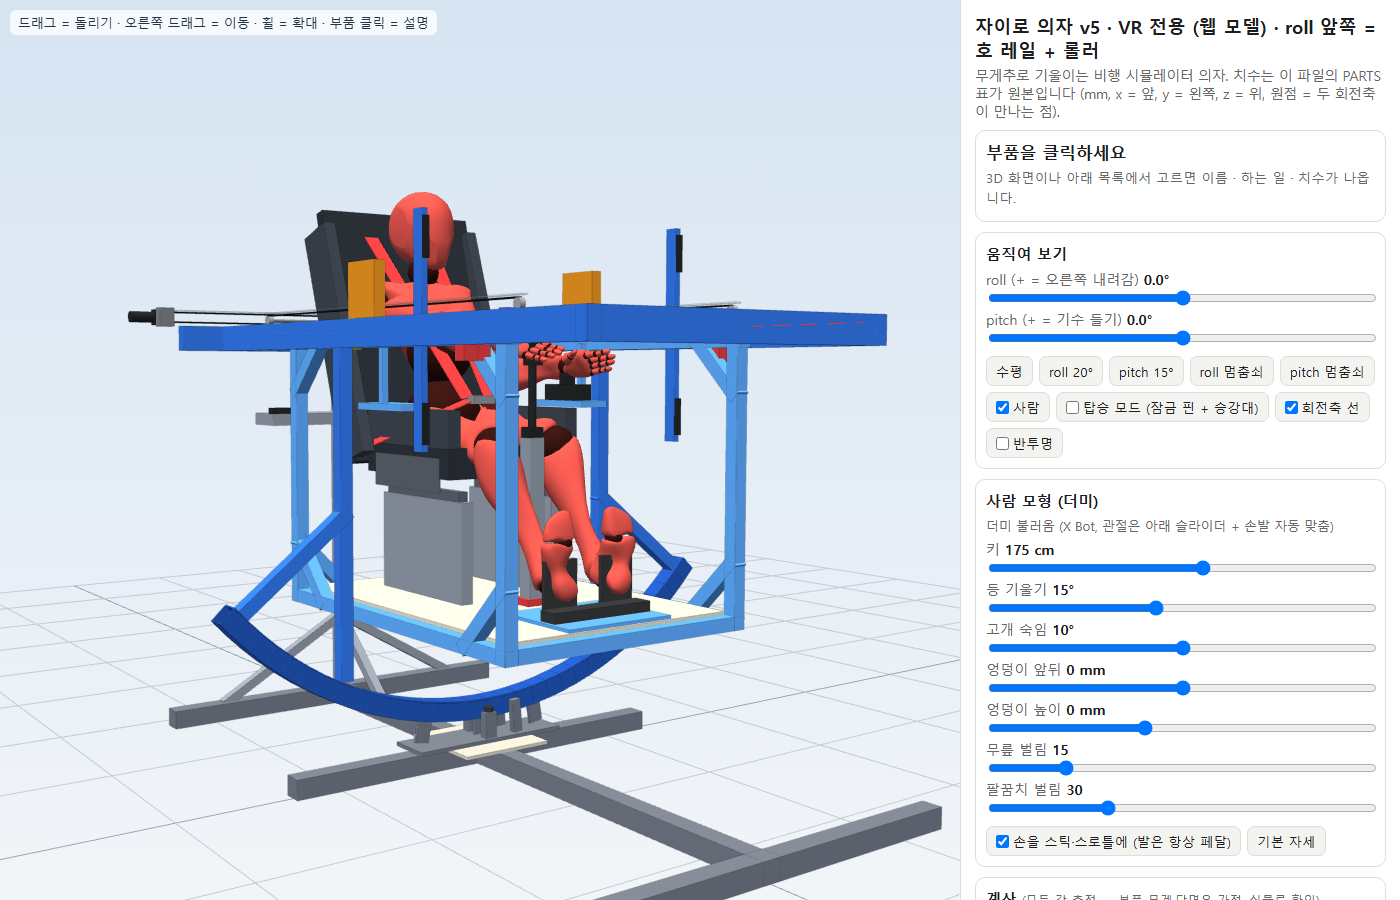
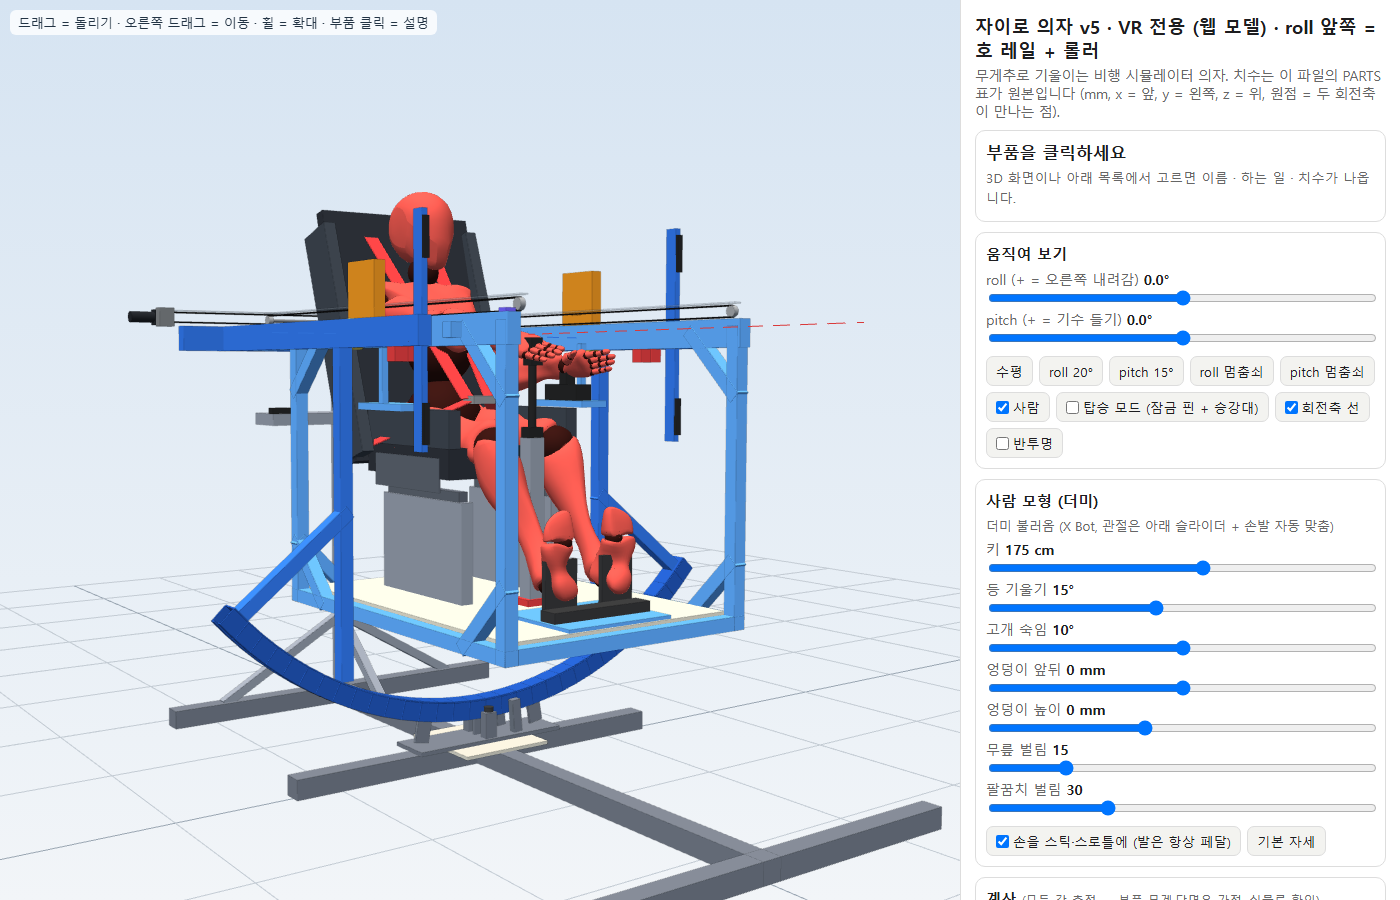
Chair: drop roll ring front member, shorten ring sides to x=+440, move pitch lock plates to x=270

Changed region(s): [[0.2764, 0.3111, 0.645, 0.4044]]

diff --git a/index.html b/index.html
@@ -122,19 +122,18 @@ const INFO={
   roller_side:["옆 안내 롤러","레일 앞·뒤 바깥 벽을 잡는 롤러 (축이 반지름 방향). 호가 앞뒤(x) 로 흔들리거나 비틀리지 않게 — 앞뒤 힘을 뒤 핀과 나눠 받는다.","Ø30 × 폭 14, 0°, 앞·뒤 각 1 개 + 받침"],
   roll_stop:["roll 멈춤쇠 막대","링 뒤 막대 아래 고정 막대. 위에 고무가 있다.","120×640×40, z −272…−232"],
   roll_rubber:["roll 고무 멈춤쇠","링이 ±30.5° 까지 기울면 링 뒤 막대가 여기에 닿아 멈춘다 (Fusion 회전 시험으로 확인).","30×70×20 고무"],
-  ring_side:["roll 링 옆 막대","링의 왼쪽·오른쪽 막대. 가운데에서 pitch 축 핀을 잡는다.","40×80 (세로), 길이 1940, y = ±480"],
+  ring_side:["roll 링 옆 막대","링의 왼쪽·오른쪽 막대. 가운데 (x = 0) 에서 pitch 축 핀을 잡고, 바로 아래로 호 레일 세로 기둥이 내려간다. 앞 기둥이 없어져서 앞 막대를 빼고 옆 막대도 pitch 멈춤쇠 팔 바로 앞 (x = +440) 까지로 줄였다. 두 옆 막대는 뒤 막대 + 가운데 호 레일 (세로 기둥 · 호 · 빗대 U자 틀) 로 묶인다. ×80 (세로), 길이 약 1.26 m (x −820 … +440), y = ±480"],
   roll_rail:["roll 레일 (링 뒤 막대)","무게추가 이 막대 위를 좌우(y) 로 ±0.59 m 미끄러지며 roll 을 기울인다. 바깥쪽 벨트가 무게추를 끈다. 아래에는 roll 고무 멈춤쇠가 닿는다.","40×80 (세로), 길이 1280, x = −800"],
   roll_belt:["roll 타이밍 벨트 (HTD 5M, 폭 15)","링 뒤 막대 바깥쪽에서 무게추를 좌우로 끄는 벨트. 무게추 팔이 위쪽 벨트에 물려 있다.","HTD5M 15 mm, 둘레 약 2.8 m"],
   roll_pulley:["roll 벨트 풀리","한쪽은 모터 축 (구동), 반대쪽은 아이들러 (헛도는 바퀴).","HTD5M 20T, 피치원 Ø31.8 (1회전 100 mm)"],
   roll_bracket:["풀리 받침","레일 끝에 붙여 풀리를 잡는 판.","8 mm 판"],
-  ring_back:["링 앞 막대 (뼈대)","무게추 없음. 링을 닫는 뼈대. 앞 기둥이 없어져서 지금은 아무 데도 안 걸려 있다 (호 레일 앞으로 1.1 m 나온 끝).","40×80 (세로), 길이 1000, x = +1100"],
   roll_motor:["roll 웜기어 모터","24 V 웜기어 DC 모터 (예: 모터뱅크 WGM40C-315724, 감속비 1/218 ≈ 25 rpm, 추정). 웜기어가 저절로 잠겨 전원이 꺼져도 무게추를 붙잡는다.","약 25 rpm × 100 mm = 초속 4.2 cm (추정)"],
   roll_weight:["roll 무게추 약 23 kg","강철 블록. 호 레일 · 행어가 축 아래 약 1 m 에 붙어 roll 되돌아오는 힘이 커져서 (27.6 → 약 33 kg·m) 18.6 → 23.2 kg 로 키움 (높이 232 → 290). roll 20° 에 약 22 kg 필요 (계산 탭, 추정, 레일 끝 ±0.565 m).","68×150×290 강철 ≈ 23.2 kg"],
   pitch_pin:["pitch 회전축","케이지가 이 축을 중심으로 앞뒤로 기운다. 링 옆 막대에 붙어 있다.","Ø40, y = ±440"],
   guard_pitch:["끼임 방지 덮개 (pitch 축)","도는 케이지와 링 사이 틈을 막는 통.","Ø90 / 안 Ø46"],
   pitch_arm:["pitch 멈춤쇠 팔","링에 붙은 세로 막대 (위아래 32 cm). 케이지 돌기가 ±30.5° 에서 이 팔의 고무에 닿는다.","40×18×640"],
   pitch_rubber:["pitch 고무 멈춤쇠","멈춤쇠 팔 위·아래에 붙은 고무.","10×18×110"],
-  lock_ring:["pitch 잠금판 (링 쪽)","케이지 쪽 잠금판과 구멍을 맞춰 핀을 꽂으면 pitch 가 0° 에 고정.","40×38×60, 구멍 Ø13"],
+  lock_ring:["pitch 잠금판 (링 쪽)","케이지 쪽 잠금판과 구멍을 맞춰 핀을 꽂으면 pitch 가 0° 에 고정. 링 옆 막대를 줄이면서 x 0.6 → 0.27 m 로 옮김.","40×38×60, 구멍 Ø13"],
   cage_post_b:["케이지 뒤 기둥","옆 레일 높이까지만. 지붕은 뺐다 (무게중심을 낮게).","40×40, z −840…+20"],
   cage_post_f:["케이지 앞 기둥","옆 레일 높이까지 (VR 전용이라 모니터 없음). 오른쪽 위에 VR 기준 트래커.","40×40, z −840…+20, x = +740"],
   floor_long:["바닥 틀 (앞뒤 방향)","케이지 바닥 사각형의 긴 막대.","40×40×1600"],
@@ -201,7 +200,7 @@ const add=p=>{if((p.g==="cage"||p.g==="person")&&!NO_SHIFT.has(p.k))shiftX(p,CAG
 const S2=[1,-1], ys=(s,a,b)=>s>0?[a,b]:[-b,-a];
 // ---- main dimensions (VR-only compact, 2026-10-29) ----
 const PF=1180,PB=-900;          // base front foot (no front post since the arc rail) / back post centre
-const RF=1100,RB=-800;          // roll ring front / back member centres
+const RF=440,RB=-800;           // ring side front END (no front member since the arc rail, 2026-11-05) / back member centre
 const XF=740,XB=-380,YS=400;    // cage front / back post centres, side rail y
 const XR=-720;                  // side rails stick out behind the back posts to here (pitch weight travel)
 // ---- base ----
@@ -244,8 +243,7 @@ for(const sx of S2){const xg=AHW+AGAP+15,[b0,b1]=ys(sx,34,62),[l0,l1]=ys(sx,34,5
   add(RBOX("base","cradle",[XA+l0,XA+l1,-15,15,-1240,-1138],5));                     // lock-pin lugs (+5 deg)
 }
 // ---- roll ring ----
-for(const s of S2){const[y0,y1]=ys(s,460,500);add(BOX("ring","ring_side",RB-20,RF+20,y0,y1,-40,40))}
-add(BOX("ring","ring_back",RF-20,RF+20,-500,500,-40,40));   // front member: only as wide as the ring (no weight here)
+for(const s of S2){const[y0,y1]=ys(s,460,500);add(BOX("ring","ring_side",RB-20,RF,y0,y1,-40,40))}   // ends just past the pitch stop arm; sides tied by the back member + arc U-frame at x = 0
 add(BOX("ring","roll_rail",RB-20,RB+20,-640,640,-40,40));
 // roll belt drive on the back member: belt loop in the y-z plane just outside it
 const RBX0=RB-50,RBX1=RB-35,RBZ=70,RPR=16;
@@ -273,7 +271,7 @@ for(const s of S2){
   add(TUBE("ring","guard_pitch",[0,s*422,0],[0,s*458,0],45,23));
   const[a0,a1]=ys(s,442,460);add(BOX("ring","pitch_arm",353,393,a0,a1,-320,320));
   add(BOX("ring","pitch_rubber",393,403,a0,a1,190,300));add(BOX("ring","pitch_rubber",393,403,a0,a1,-300,-190));
-  const[p0,p1]=ys(s,442,480);add(BOX("ring","lock_ring",580,620,p0,p1,-80,-20));
+  const[p0,p1]=ys(s,442,480);add(BOX("ring","lock_ring",250,290,p0,p1,-80,-20));   // moved from x 600 (ring side is shorter now)
 }
 // ---- pitch cage ----
 for(const y of[YS,-YS]){
@@ -319,7 +317,7 @@ add(BOX("cage","vr_hook",-470,-440,-262,-252,240,260));
 const PX=700;                   // pitch belt pulley x (+-)
 for(const s of S2){
   const[w0,w1]=ys(s,382,418);add(BOX("cage","pitch_weight",-75,75,w0,w1,40,210));
-  const[l0,l1]=ys(s,400,438);add(BOX("cage","lock_cage",580,620,l0,l1,-80,-20));
+  const[l0,l1]=ys(s,400,438);add(BOX("cage","lock_cage",250,290,l0,l1,-80,-20));
   const[t0,t1]=ys(s,420,452);add(BOX("cage","pitch_tab",480,520,t0,t1,-20,20));
   add(STRAP("cage","belt_sh",[-420,s*110,330],[35,s*45,-180],50,3,[0,1,0]));
   add(STRAP("cage","belt_lap",[-140,s*252,-322],[35,s*40,-200],50,3,[1,0,0]));
@@ -342,7 +340,7 @@ for(const x of[-DX+15,DX-15]){add(CYL("board","handrail",[x,DK0+15,DZ],[x,DK0+15
   add(CYL("board","handrail",[x,DK0-245,-120],[x,DK0+15,DZ+900],15))}
 add(CYL("board","handrail",[-DX+15,DK0+15,DZ+900],[DX-15,DK0+15,DZ+900],15));
 // ---- lock pins ----
-for(const s of S2) add(CYL("pins","pin",[600,s*405,-55],[600,s*485,-55],6));
+for(const s of S2) add(CYL("pins","pin",[270,s*405,-55],[270,s*485,-55],6));
 add(CYL("pins","pin",rotX([XA-62,0,-1150],5),rotX([XA+62,0,-1150],5),6));   // roll lock: lug -> both channel walls (+5 deg hole) -> lug
 // ---- person (seated, faces +x) ----
 const PSN=(x0,x1,y0,y1,z0,z1)=>add(BOX("person","person",x0,x1,y0,y1,z0,z1));
@@ -593,9 +591,9 @@ function renderStrength(){
   const cant=(name,key,F,arm,extraM)=>{const prof=memberProfile[key],S=PROFILES[prof],M=F*arm+(extraM||0),s=M*1e3/S.W,d=(F*arm**3/3+(extraM||0)*arm**2/2)/(MAT.al.E*S.I)*1e9;return{name,key,sec:prof,M,s,al:MAT.al.fy/SF,d}};
   // ring side: the pitch pin sits right above the hanger, so the cage load goes straight down; the side only carries the
   // back-pin shear (conservative: whole back-pin force / 2) over hanger -> back member, and the front member as an overhang
-  const Wfront=sum(B.T.ring.filter(x=>x.k==="ring_back"),x=>x.m)*G*DF;
+  const Wfront=(PROFILES[memberProfile.ring_side].kgm*(RF-XA)/1000*2+2*(FIXED.pitch_arm+FIXED.lock_ring))*G*DF;   // both front stubs + stop arms + lock plates
   rows.push(cant("링 옆 막대 (행어 ↔ 뒤 막대)","ring_side",Fb/2,(XA-RB)/1000));
-  rows.push(cant("링 옆 막대 앞 외팔보 (행어 → 앞 막대)","ring_side",Wfront/2,(RF-XA)/1000));
+  rows.push(cant("링 옆 막대 앞 끝 (행어 → 끝, 0.44 m)","ring_side",Wfront/2,(RF-XA)/1000));
   rows.push(cant("링 뒤 막대 (roll 레일, 반쪽)","roll_rail",Fb/2,0.48,B.mr*G*DF*B.ymax));
   rows.push(beam("케이지 옆 레일 (pitch 축)","side_rail",P1,a2,b2,L2));
   rows.push(beam("바닥 틀 앞뒤 막대 (좌석)","floor_long",seatW/2,a2,b2,L2));
